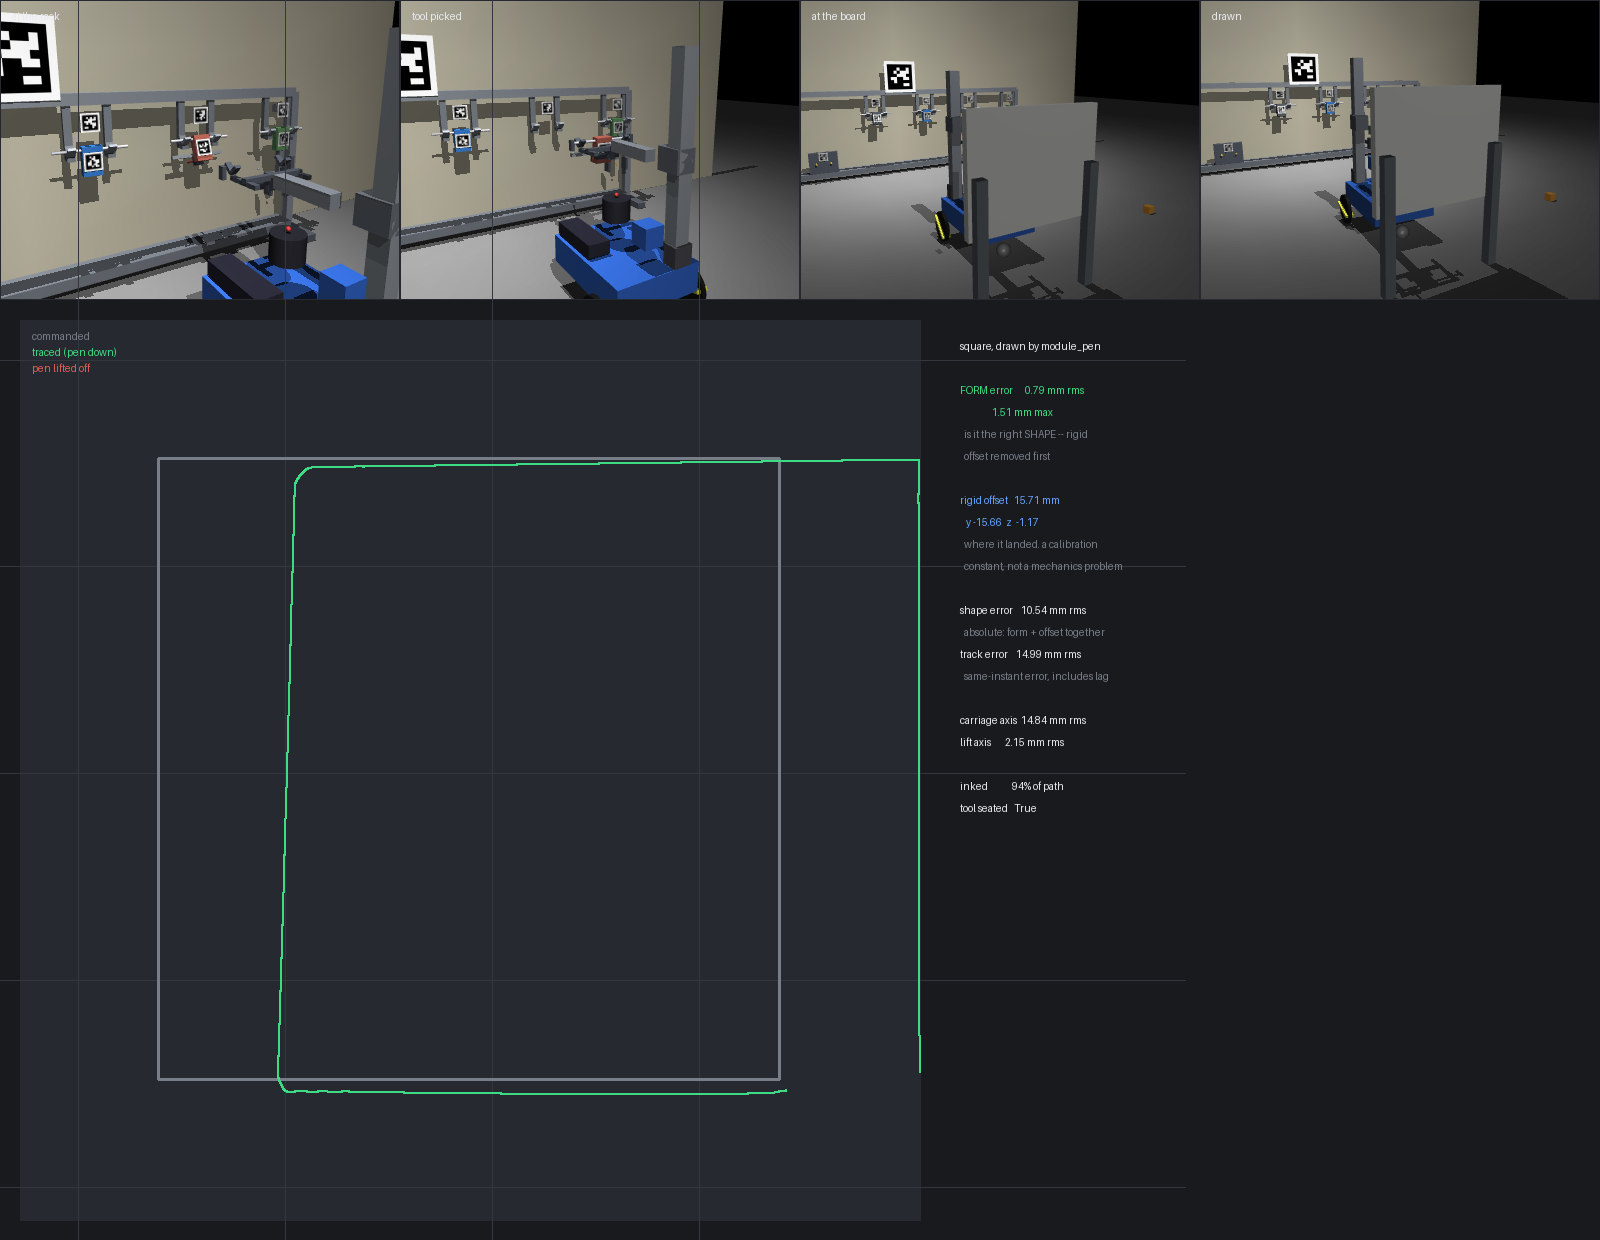
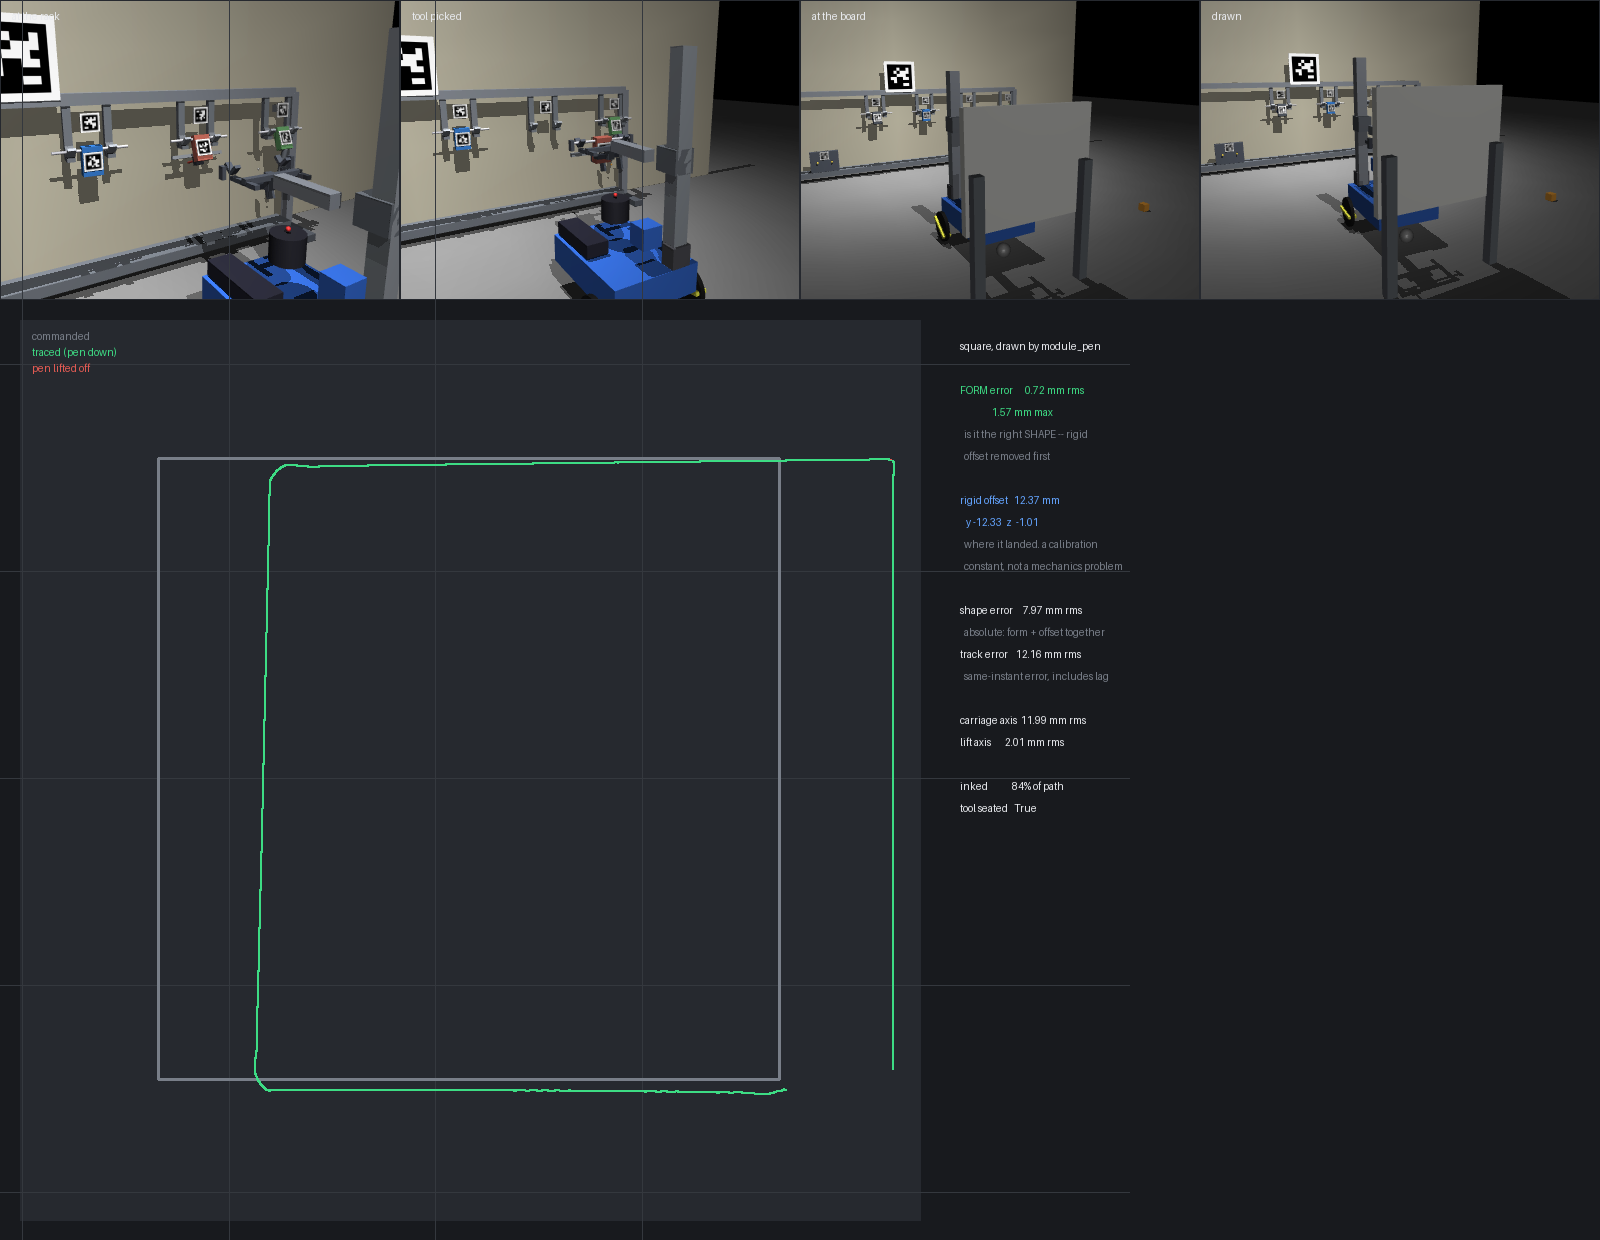
Updating docs

diff --git a/src/pluggybot/hub/gripper.py b/src/pluggybot/hub/gripper.py
@@ -48,10 +48,10 @@ CARRY_LIFT = 0.160        # carrying height. Was 0.090 "clear of the floor,
                           # sized by its SWING, not by its static height.
                           # An apparent lift CEILING at ~0.193 (the block let
                           # go with no contact but the pads) turned out to be
-                          # the same solver creep cured by noslip below: the
-                          # higher the lift, the longer the grip was held and
-                          # the further the block had crept. Not a ceiling at
-                          # all -- a clock.
+                          # the same contact creep, now cured by the pads' hard
+                          # solimp: the higher the lift, the longer the grip
+                          # was held and the further the block had crept. Not a
+                          # ceiling at all -- a clock.
 JAW_HALF_H = 0.020        # pad half-height (mirrors coupling.CLAW_PAD_HALF_H)
 FLOOR_CLEARANCE = 0.002   # pad bottoms above the floor when closing. The grip
                           # target is set by the JAWS, not the object: aiming
@@ -69,7 +69,6 @@ JAW_SPEED = 0.030         # m/s ceiling on jaw SETPOINT motion
 LIFT_SPEED = 0.05         # m/s ceiling on lift SETPOINT motion (lead-screw
                           # class). See set_lift: a step command unseats the
                           # gravity-latched module.
-NOSLIP_ITERATIONS = 3     # see ClawTool.__init__: cures gripper creep
 SETTLE = 0.6
 
 
@@ -85,28 +84,17 @@ class ClawTool:
     self._jaw_gids = {model.geom(g).id for g in JAW_GEOMS}
     self.offset = (VERTEX_AHEAD_OF_AXLE, -PLUG_LATERAL)   # nominal until measured
 
-  def grasp_physics(self, on: bool) -> None:
-    """Turn MuJoCo's `noslip` post-solve pass on for holding, off otherwise.
+  def grasp_physics(self, on: bool = True) -> None:
+    """Deprecated no-op, kept so existing callers keep working.
 
-    WHY IT IS NEEDED. MuJoCo's friction is a REGULARIZED constraint that
-    drifts under sustained load, so a gripped block creeps out of the jaws at
-    ~8 mm/s regardless of clamp force -- measured, 7.2 N and an 18x friction
-    margin still lost a 60 g block, and the giveaway was that a SLOWER lift
-    did WORSE. Three iterations take the slip from -99 mm to +0.03 mm.
-
-    WHY IT MUST BE SCOPED. It is not merely expensive (2.7x step time); it
-    actively BREAKS the tool coupling. Measured on a claw pick: with the pass
-    on, the module lands on the fork but is **not powered** -- the peg fails
-    to seat against both V-notch pairs (bay error 3.1 -> 5.0 mm). That is
-    coherent rather than mysterious: the peg seats by SLIDING into its V, the
-    self-centring the whole gravity latch depends on, and this pass exists to
-    suppress sliding. Grasping wants no slip; the coupling wants slip. They
-    are opposite requirements and must never be on at once.
-
-    Found the hard way -- setting it in __init__ leaked through a
-    module-scoped test fixture into a later test's coupling pick.
+    Grip creep once needed MuJoCo's `noslip` post-solve pass, toggled ON for
+    holding and OFF for coupling -- two solver policies and a genuine
+    footgun. It is fixed at the source now: the jaw pads carry a HARD
+    contact constraint (`coupling.GRIP_SOLIMP`), which removes the drift
+    with no solver mode at all. Measured slip over a 100 mm lift:
+    -21.7 mm soft, -0.13 mm hard, against +0.28 mm for the noslip cure.
+    One policy everywhere, and ~3x faster.
     """
-    self.model.opt.noslip_iterations = NOSLIP_ITERATIONS if on else 0
 
   def calibrate(self) -> tuple[float, float]:
     """Measure where the grip point actually sits relative to the axle.
@@ -318,7 +306,6 @@ class ClawTool:
     """
     self.jaws(0.0)
     residual = self.lower_grip_to(GRIP_Z)
-    self.grasp_physics(True)
     self.jaws(1.0, settle=1.2)
     gripped = self.holding()
     self.set_lift(CARRY_LIFT, settle=1.5)
@@ -329,6 +316,5 @@ class ClawTool:
     """Lower until the object is back on the floor, release, retreat upward."""
     self.lower_grip_to(GRIP_Z)
     self.jaws(0.0, settle=1.0)
-    self.grasp_physics(False)       # the coupling needs its slide back
     self.set_lift(APPROACH_LIFT, settle=1.5)
     return {"released": not self.holding()}

diff --git a/src/pluggybot/hub/drawing.py b/src/pluggybot/hub/drawing.py
@@ -64,7 +64,7 @@ PRESS_EXTRA = 0.010       # m of arm reach past first contact. With the soft
                           # arm's own 1200 N/m servo.
 PRESS_MAX = 0.19          # m of arm extension before giving up on the board
 LIFT_MIN, LIFT_MAX = 0.02, 0.30
-NOSLIP_ITERATIONS = 3     # see PenPlotter.__init__: cures contact creep
+NOSLIP_ITERATIONS = 3     # see PenPlotter.contact_physics
 BOARD_STANDOFF = 0.34     # m axle-to-board. MEASURED, not chosen: the pen tip
                           # rides 0.283 m ahead of the axle at the stowed-work
                           # extension, so a 0.42 m standoff left it 137 mm
@@ -329,18 +329,24 @@ class PenPlotter:
 
   # ---- drawing -------------------------------------------------------------
 
-  def contact_physics(self, on: bool) -> None:
-    """MuJoCo's `noslip` pass, on only while the pen is working.
+  def contact_physics(self, on: bool = True) -> None:
+    """MuJoCo's `noslip` post-solve pass, on only while the pen is working.
 
-    A pen dragged across a board is a sustained tangential load, and MuJoCo's
-    regularized friction drifts under exactly that. Measured on a square:
-    ink 63 % -> 94 %, FORM error 2.14 -> 0.79 mm. The rigid offset barely
-    moves, which says the offset is a real calibration error and only shape
-    fidelity was being eaten by the solver.
+    Unlike the claw -- whose creep was cured outright by a hard contact
+    constraint on the jaw pads, no solver mode needed -- the plotter still
+    measurably needs this pass, and I could not find the contact-parameter
+    equivalent. Hardening the pen tip did nothing (square: 63 % inked either
+    way) and hardening the peg-in-V barely moved it (64 %, form 1.69 mm),
+    against 94 % inked and 0.79 mm form with the pass on. Whatever the pen is
+    losing, it is not concentrated in one contact pair.
 
-    Scoped for the same reason the claw scopes it: the pass BREAKS the tool
-    coupling, whose peg seats by sliding into its V (see
-    gripper.ClawTool.grasp_physics). Never leave it on across a swap.
+    ⚠ This is now purely a COST decision, not a correctness one. It used to
+    be a hard conflict -- the pass broke the tool coupling -- but that was a
+    friction bug: the peg was running on MuJoCo's default mu=1.0, whose
+    friction angle is exactly the V's 45 deg flank, so it depended on solver
+    drift to seat. At the honest mu=0.4 the coupling seats fine with the pass
+    on OR off. Nothing breaks if this is left enabled; it just costs ~3x the
+    step time, so the plotter turns it on for a drawing and off afterwards.
     """
     self.model.opt.noslip_iterations = NOSLIP_ITERATIONS if on else 0
 

diff --git a/src/pluggybot/hub/coupling.py b/src/pluggybot/hub/coupling.py
@@ -513,6 +513,23 @@ CLAW_PAD_HALF_H = 0.020   # pad half-height. 40 mm pads grip and lift
                           # the GRASP fail outright, so the tall pads stay
                           # until that is understood. See docs/SimNotes.md:
                           # carrying through a turn is an open item.
+# A HARD contact constraint on the pads, and this is what lets the whole robot
+# run one solver policy instead of two.
+#
+# MuJoCo's contact constraints are soft by default (solimp 0.9 0.95 0.001), and
+# a soft tangential constraint DRIFTS under sustained load: a gripped block
+# creeps out of the jaws at ~8 mm/s regardless of clamp force. The obvious cure
+# is the `noslip` post-solve pass, and it works -- but it costs 2.8x the step
+# time globally and had to be toggled per phase, which is a footgun.
+#
+# Stiffening the constraint on the two PADS fixes it at the source: slip over a
+# 100 mm lift goes -21.7 mm (soft, no noslip) -> -0.13 mm (hard, no noslip),
+# against +0.28 mm for the noslip cure. Same result, no solver mode, no toggle,
+# and 3x faster. It is also the more honest model -- a rigid printed pad on a
+# rigid block should not squash -- and it follows the house pattern of putting
+# contact behaviour on the specific geoms that need it (condim="1"
+# priority="1" on the caster; friction+priority on the peg).
+GRIP_SOLIMP = "0.99 0.999 0.0001"
 CLAW_GRIP_KP = 600.0      # grip force = kp x squeeze past contact. 200 held
                           # a static lift but lost the block during a TURN:
                           # the pendant swings, and 1.8 N per pad was not
@@ -636,7 +653,7 @@ def _module_faces() -> tuple[str, str]:
     f'\n          <geom name="module_pen_shaft" type="capsule" size="0.0025" '
     f'fromto="-0.008 0 0 {-(0.008 + PEN_LEN):.4f} 0 0" '
     f'mass="0.006" friction="0.25" priority="1" '
-    f'rgba="0.90 0.30 0.25 1"/>'
+    f'solimp="{GRIP_SOLIMP}" rgba="0.90 0.30 0.25 1"/>'
     f'\n          <site name="pen_tip" pos="{-(0.008 + PEN_LEN):.4f} 0 0" '
     f'size="0.002" rgba="0.9 0.3 0.25 1"/>'
     f'\n        </body>'
@@ -668,7 +685,7 @@ def _module_faces() -> tuple[str, str]:
       f'range="{-CLAW_JAW_TRAVEL:.4f} 0" damping="1"/>'
       f'\n        <geom name="module_claw_pad_{lbl}" type="box" '
       f'size="0.014 0.004 {CLAW_PAD_HALF_H:.4f}" mass="0.020" '
-      f'friction="1.5" priority="1" '
+      f'friction="1.5" priority="1" solimp="{GRIP_SOLIMP}" '
       f'rgba="0.30 0.32 0.36 1"/>'
       f'\n      </body>'
       for lbl, s in (("l", 1), ("r", -1)))

diff --git a/docs/SimNotes.md b/docs/SimNotes.md
@@ -1110,6 +1110,38 @@ aim assertion was a single 15 mm RADIAL tolerance, which hid that the jaws
 capture a 62 mm lateral gap but only 28 mm fore-aft. It is per-axis now. The
 grasp itself remains the real criterion.
 
+### One solver policy, or two? (the toggle, revisited)
+Ben pushed back on the per-phase `noslip` toggle: is that unavoidable, or is
+there an implementation with one policy? Measuring it was worth it — the
+answer is mostly yes, and the reasoning I had written down was already stale.
+
+- **The conflict was gone and I had not noticed.** "The coupling needs noslip
+  OFF" was measured at the peg's *wrong* μ=1.0. At the honest μ=0.4 the
+  coupling picks, powers and returns correctly at noslip 0, 1 AND 3. So the
+  toggle stopped being a correctness requirement the moment the friction bug
+  was fixed; I left the old justification in CLAUDE.md, where a future session
+  would have believed it.
+- **The claw needs no solver mode at all.** A hard contact constraint on the
+  two jaw pads (`GRIP_SOLIMP = 0.99 0.999 0.0001`) removes the creep at the
+  source: slip over a 100 mm lift goes **−21.7 mm → −0.13 mm**, against
+  +0.28 mm for the noslip cure. It is also the better model — a rigid printed
+  pad on a rigid block should not squash — and it follows the house pattern of
+  putting contact behaviour on the geoms that need it (`condim="1"
+  priority="1"` on the caster; friction+priority on the peg).
+- **The plotter still needs the pass, and I could not find its equivalent.**
+  Hardening the pen tip changed nothing (square: 63 % inked either way) and
+  hardening the peg-in-V barely moved it (64 %, form 1.69 mm), against 94 %
+  inked / 0.79 mm form with the pass on. Whatever the pen loses is not
+  concentrated in one contact pair. Recorded as an open question rather than
+  papered over.
+- **Cost is binary, not per-iteration**: 0.333 ms/step off, 0.928 at noslip=1,
+  1.070 at noslip=3. Turning the pass on at all is the expense; extra
+  iterations are nearly free.
+
+Net: one policy for everything except drawing, and the drawing's use of it is
+now a cost trade rather than a correctness hack — nothing breaks if it is left
+enabled anywhere.
+
 ## Debugging workflow that worked
 
 1. Reproduce headlessly with printed telemetry (pose, wheel ω, contact list, `ncon`) — vibes don't bisect.

diff --git a/CLAUDE.md b/CLAUDE.md
@@ -45,7 +45,7 @@ Simulated self-charging robot in MuJoCo. Before doing anything, read:
   filmstrip, `--shape square` for the more diagnostic figure),
   `scripts/pickup.py` (the claw module: fetch it from bay D, grip a block off
   the floor, carry it, set it down; saves `pickup.png`. `--view` watches live.
-  Grasp+lift verified; carrying through a turn is a known open item),
+  Full pick-carry-place verified),
   `scripts/module_power.py` (module electrical interface: runs the errand and
   saves `module_power.png` — filmstrip with the module painted live/dead plus
   a per-pole continuity timeline; `--bare` for the faster hub_world version),
@@ -92,11 +92,14 @@ Simulated self-charging robot in MuJoCo. Before doing anything, read:
   servo handed a step delivers it as an impulse: it has thrown a module off the
   fork and batted a gripped block out of the jaws. `control.slew` does this for
   wheels; `ClawTool.set_lift`/`jaws` and `PenPlotter.ramp` for the rest.
-- **`noslip_iterations` is phase-scoped, deliberately.** Holding contact
-  (grasping, drawing) needs it — MuJoCo's regularized friction otherwise creeps
-  ~8 mm/s under sustained load regardless of clamp force. The COUPLING needs it
-  OFF: the peg seats by sliding into its V. See `ClawTool.grasp_physics` /
-  `PenPlotter.contact_physics`. Never enable it globally.
+- **Contact creep: prefer a hard `solimp` on the specific geoms.** MuJoCo's
+  contact constraints are soft by default and DRIFT under sustained load — a
+  gripped block crept out of the jaws at ~8 mm/s regardless of clamp force.
+  The claw fixes this at the source with `coupling.GRIP_SOLIMP` on the two jaw
+  pads (slip −21.7 mm → −0.13 mm), needing no solver mode. The PLOTTER still
+  uses MuJoCo's `noslip` pass (`PenPlotter.contact_physics`) because no
+  contact-parameter equivalent was found for it; that is a **cost** choice
+  (~3× step time), not a correctness one — nothing breaks if it is left on.
 - Contact params combine as the elementwise **MAX** unless `priority` is set —
   so a low `friction` without `priority="1"` does nothing. This has bitten the
   caster, the pen pads and the coupling peg.
